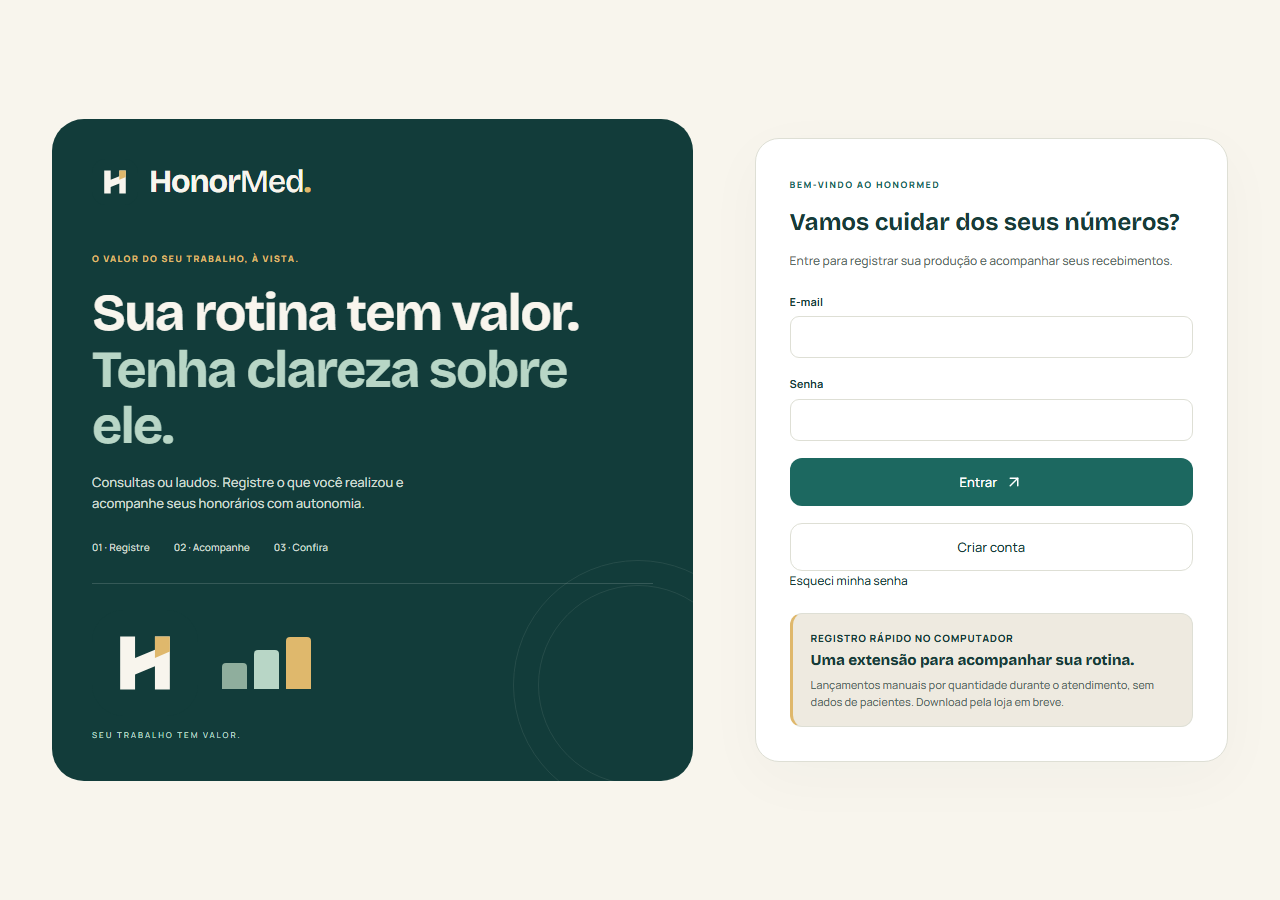
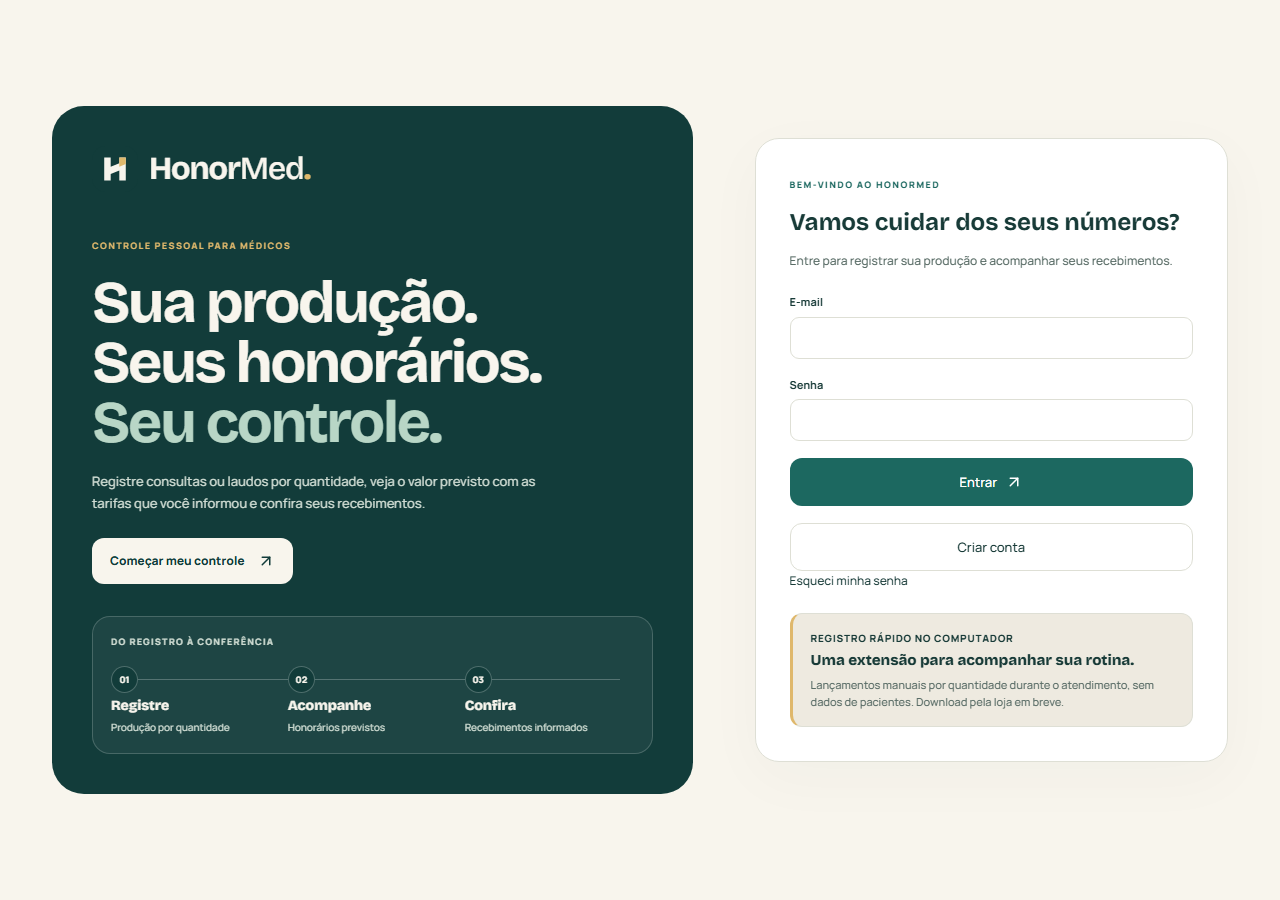
feat(brand): apresentar hero publica e movimento acessivel

diff --git a/web/src/app/globals.css b/web/src/app/globals.css
@@ -915,9 +915,6 @@ summary > strong {
   max-width: 400px;
   font-size: 14px;
 }
-.login-stat {
-  display: none;
-}
 .login-form {
   padding: 28px;
 }
@@ -1067,13 +1064,6 @@ summary > strong {
     grid-template-columns: 1fr 1fr;
     gap: 50px;
     padding: 50px;
-  }
-  .login-stat {
-    display: flex;
-    gap: 20px;
-    margin-top: 45px;
-    font-size: 12px;
-    color: var(--accent);
   }
 }
 @media (min-width: 960px) {
@@ -1686,6 +1676,98 @@ summary > strong {
   font-size: 9px;
   letter-spacing: 1.35px;
 }
+.public-hero h1 {
+  max-width: 590px;
+  font-size: clamp(38px, 4.4vw, 62px);
+  line-height: 1.02;
+  letter-spacing: -2.3px;
+}
+.public-hero > p {
+  max-width: 495px;
+  font-size: 14px;
+  line-height: 1.65;
+}
+.public-hero-action {
+  display: inline-flex;
+  align-items: center;
+  justify-content: center;
+  gap: 12px;
+  min-height: 46px;
+  margin-top: 24px;
+  padding: 11px 18px;
+  border-radius: 12px;
+  background: var(--accent);
+  color: var(--accent-ink);
+  font-size: 12px;
+  font-weight: 800;
+  transition: transform 220ms ease, box-shadow 220ms ease;
+}
+.public-hero-flow {
+  margin-top: 28px;
+  padding: 18px;
+  border: 1px solid var(--line);
+  border-radius: 18px;
+  background: var(--surface);
+}
+.public-hero-flow-title {
+  display: block;
+  margin-bottom: 17px;
+  color: var(--muted);
+  font-size: 9px;
+  font-weight: 800;
+  letter-spacing: 1.2px;
+}
+.public-hero-flow ol {
+  position: relative;
+  display: grid;
+  grid-template-columns: repeat(3, minmax(0, 1fr));
+  gap: 8px;
+  margin: 0;
+  padding: 0;
+  list-style: none;
+}
+.public-hero-flow ol::before {
+  content: "";
+  position: absolute;
+  top: 13px;
+  left: 14px;
+  right: 14px;
+  height: 1px;
+  background: var(--line);
+  transform-origin: left;
+  animation: hero-line 850ms ease 420ms both;
+}
+.public-hero-flow li {
+  position: relative;
+  display: grid;
+  justify-items: start;
+  gap: 5px;
+  min-width: 0;
+}
+.public-hero-flow li > span {
+  display: grid;
+  place-items: center;
+  width: 27px;
+  height: 27px;
+  border: 1px solid var(--line);
+  border-radius: 50%;
+  background: var(--surface);
+  color: var(--ink);
+  font-size: 9px;
+  font-weight: 800;
+}
+.public-hero-flow strong {
+  color: var(--ink);
+  font-family: var(--display);
+  font-size: 14px;
+  line-height: 1.2;
+}
+.public-hero-flow small {
+  display: none;
+  color: var(--muted);
+  font-size: 10px;
+  line-height: 1.45;
+}
 .login-form {
   border-radius: 24px;
   box-shadow: 0 16px 60px #123c3a08;
@@ -1722,18 +1804,6 @@ summary > strong {
   color: var(--muted);
   font-size: 11px;
   line-height: 1.55;
-}
-.login-stat {
-  display: flex;
-  flex-wrap: wrap;
-  gap: 16px;
-  margin-top: 22px;
-  font-size: 10px;
-  letter-spacing: 0.1px;
-  color: var(--muted);
-}
-.brand-composition {
-  display: none;
 }
 @media (min-width: 600px) and (max-width: 959px) {
   .login {
@@ -1780,71 +1850,105 @@ summary > strong {
     font-size: 13px;
     max-width: 360px;
   }
-  .login-stat {
+  .public-hero h1 {
+    max-width: 540px;
+    font-size: clamp(46px, 4.6vw, 62px);
+  }
+  .public-hero > p {
+    max-width: 450px;
+    font-size: 13px;
+  }
+  .public-hero-action {
+    background: var(--brand-paper);
+    color: var(--brand-deep);
+  }
+  .public-hero-flow {
+    margin-top: 32px;
+    border-color: #ffffff30;
+    background: #ffffff0d;
+  }
+  .public-hero-flow-title,
+  .public-hero-flow small {
     color: #cedbd2;
-    gap: 24px;
-    margin-top: 26px;
+  }
+  .public-hero-flow ol::before {
+    background: #ffffff40;
+  }
+  .public-hero-flow li > span {
+    border-color: #ffffff40;
+    background: var(--brand-deep);
+    color: var(--brand-paper);
+  }
+  .public-hero-flow strong {
+    color: var(--brand-paper);
+  }
+  .public-hero-flow small {
+    display: block;
   }
   .login-form {
     padding: 34px;
   }
-  .brand-composition {
-    display: flex;
-    position: relative;
-    height: 158px;
-    margin-top: 28px;
-    border-top: 1px solid #ffffff26;
-    align-items: center;
-    gap: 24px;
+}
+
+@keyframes surface-enter {
+  from { opacity: 0; transform: translateY(12px); }
+  to { opacity: 1; transform: translateY(0); }
+}
+@keyframes hero-line {
+  from { transform: scaleX(0); }
+  to { transform: scaleX(1); }
+}
+.public-hero .brand,
+.public-hero > .eyebrow,
+.public-hero h1,
+.public-hero > p,
+.public-hero-action,
+.public-hero-flow,
+.login-form {
+  animation: surface-enter 520ms cubic-bezier(.2, .8, .2, 1) both;
+}
+.public-hero > .eyebrow { animation-delay: 70ms; }
+.public-hero h1 { animation-delay: 130ms; }
+.public-hero > p { animation-delay: 190ms; }
+.public-hero-action { animation-delay: 250ms; }
+.public-hero-flow { animation-delay: 310ms; }
+.login-form { animation-delay: 170ms; }
+.main > .hero,
+.quick-card {
+  animation: surface-enter 420ms cubic-bezier(.2, .8, .2, 1) both;
+}
+.button,
+.icon-button,
+.seg button,
+.quick-tabs button,
+.sidebar nav button {
+  transition: transform 180ms ease, box-shadow 180ms ease, background-color 180ms ease;
+}
+@media (hover: hover) {
+  .button:not(:disabled):hover,
+  .icon-button:not(:disabled):hover,
+  .seg button:hover,
+  .quick-tabs button:hover,
+  .sidebar nav button:hover,
+  .public-hero-action:hover {
+    transform: translateY(-2px);
+    box-shadow: 0 5px 14px #123c3a1f;
   }
-  .brand-composition .honormed-mark {
-    width: 106px;
-    height: 106px;
-    z-index: 1;
-  }
-  .composition-orbit {
-    position: absolute;
-    width: 250px;
-    height: 250px;
-    border: 1px solid #f8f5ed17;
-    border-radius: 50%;
-    right: -110px;
-    top: -24px;
-  }
-  .composition-orbit::after {
-    content: "";
-    position: absolute;
-    inset: 24px;
-    border: 1px solid #f8f5ed17;
-    border-radius: 50%;
-  }
-  .composition-line {
-    display: flex;
-    gap: 7px;
-    align-items: flex-end;
-    height: 52px;
-  }
-  .composition-line span {
-    width: 25px;
-    height: 26px;
-    background: #8fae9d;
-    border-radius: 4px 4px 0 0;
-  }
-  .composition-line span:nth-child(2) {
-    height: 39px;
-    background: #b8d6c6;
-  }
-  .composition-line span:nth-child(3) {
-    height: 52px;
-    background: var(--brand-gold);
-  }
-  .brand-composition small {
-    position: absolute;
-    bottom: 0;
-    left: 0;
-    color: #b8d6c6;
-    font-size: 8px;
-    letter-spacing: 2px;
+}
+.button:not(:disabled):active,
+.icon-button:not(:disabled):active,
+.seg button:active,
+.quick-tabs button:active,
+.sidebar nav button:active,
+.public-hero-action:active {
+  transform: scale(.98);
+}
+@media (prefers-reduced-motion: reduce) {
+  *, *::before, *::after {
+    scroll-behavior: auto !important;
+    animation-duration: .01ms !important;
+    animation-delay: 0ms !important;
+    transition-duration: .01ms !important;
   }
 }
 

diff --git a/web/src/components/app.tsx b/web/src/components/app.tsx
@@ -308,37 +308,37 @@ export default function App({
   if (!signed)
     return (
       <main className="login">
-        <div className="login-story">
+        <section className="login-story public-hero" aria-labelledby="public-hero-title">
           <div className="brand">
             <Brand />
           </div>
-          <span className="eyebrow">O VALOR DO SEU TRABALHO, À VISTA.</span>
-          <h1>
-            Sua rotina tem valor.
+          <span className="eyebrow">CONTROLE PESSOAL PARA MÉDICOS</span>
+          <h1 id="public-hero-title">
+            Sua produção.
             <br />
-            <em>Tenha clareza sobre ele.</em>
+            Seus honorários.
+            <br />
+            <em>Seu controle.</em>
           </h1>
           <p>
-            Consultas ou laudos. Registre o que você realizou e acompanhe seus
-            honorários com autonomia.
+            Registre consultas ou laudos por quantidade, veja o valor previsto
+            com as tarifas que você informou e confira seus recebimentos.
           </p>
-          <div className="login-stat">
-            <span>01 · Registre</span>
-            <span>02 · Acompanhe</span>
-            <span>03 · Confira</span>
+          <a className="public-hero-action" href="#acesso">
+            Começar meu controle <ArrowUpRight size={18} aria-hidden="true" />
+          </a>
+          <div className="public-hero-flow">
+            <span className="public-hero-flow-title">DO REGISTRO À CONFERÊNCIA</span>
+            <ol>
+              <li><span>01</span><strong>Registre</strong><small>Produção por quantidade</small></li>
+              <li><span>02</span><strong>Acompanhe</strong><small>Honorários previstos</small></li>
+              <li><span>03</span><strong>Confira</strong><small>Recebimentos informados</small></li>
+            </ol>
           </div>
-          <div className="brand-composition" aria-hidden="true">
-            <div className="composition-orbit" />
-            <BrandMark />
-            <div className="composition-line">
-              <span /> <span /> <span />
-            </div>
-            <small>SEU TRABALHO TEM VALOR.</small>
-          </div>
-        </div>
-        <section className="card login-form">
+        </section>
+        <section className="card login-form" id="acesso" aria-labelledby="access-title">
           <span className="eyebrow">BEM-VINDO AO {PRODUCT_NAME}</span>
-          <h2>Vamos cuidar dos seus números?</h2>
+          <h2 id="access-title">Vamos cuidar dos seus números?</h2>
           <p className="muted">
             Entre para registrar sua produção e acompanhar seus recebimentos.
           </p>

diff --git a/web/e2e/public-entry.spec.ts b/web/e2e/public-entry.spec.ts
@@ -1,12 +1,20 @@
 import { test, expect } from "@playwright/test";
 
-test("entrada pública apresenta a extensão sem oferecer download antes da loja", async ({ page }, info) => {
+test("hero explica o controle pessoal, leva ao acesso e respeita movimento reduzido", async ({ page }, info) => {
   await page.goto("/");
+  await expect(page.getByRole("heading", { name: "Sua produção. Seus honorários. Seu controle." })).toBeVisible();
+  await expect(page.getByText("DO REGISTRO À CONFERÊNCIA")).toBeVisible();
   await expect(page.getByRole("heading", { name: "Vamos cuidar dos seus números?" })).toBeVisible();
   const note = page.getByRole("complementary", { name: "Extensão de registro rápido" });
   await expect(note).toContainText("Lançamentos manuais por quantidade");
   await expect(note).toContainText("Download pela loja em breve.");
   await expect(note.getByRole("link")).toHaveCount(0);
   expect(await page.evaluate(() => document.documentElement.scrollWidth <= innerWidth)).toBe(true);
-  await page.screenshot({ path: `test-results/public-entry-${info.project.name}.png`, fullPage: true });
+  await page.screenshot({ path: `test-results/public-entry-${info.project.name}.png`, fullPage: true, animations: "disabled" });
+  await page.getByRole("link", { name: "Começar meu controle" }).click();
+  await expect(page).toHaveURL(/#acesso$/);
+  await expect(page.locator("#acesso")).toBeInViewport();
+  await page.emulateMedia({ reducedMotion: "reduce" });
+  const duration = await page.locator(".public-hero h1").evaluate((element) => getComputedStyle(element).animationDuration);
+  expect(parseFloat(duration)).toBeLessThan(0.001);
 });

diff --git a/docs/brand/emails/README.md b/docs/brand/emails/README.md
@@ -9,7 +9,7 @@ Artes prontas para os dois fluxos usados pelo site: confirmação do cadastro e 
 
 A página `/recuperar-senha` também foi alinhada ao visual do login: [prévia 390 px](previa-pagina-recuperacao-390.png), [prévia 1280 px](previa-pagina-recuperacao-1280.png) e versões [escura 390 px](previa-pagina-recuperacao-escuro-390.png) e [escura 1280 px](previa-pagina-recuperacao-escuro-1280.png). As capturas usam Auth/API simulados e nenhum dado real.
 
-A página pública de entrada também tem prévias de [390 px](previa-pagina-publica-390.png), [1280 px](previa-pagina-publica-1280.png), [390 px em tema escuro](previa-pagina-publica-escuro-390.png) e [1280 px em tema escuro](previa-pagina-publica-escuro-1280.png). Elas mostram cadastro, recuperação de senha e a chamada da extensão. O download da extensão permanece indisponível até sua publicação na loja. Para regenerar essas quatro prévias, execute `node scripts/preview-public-entry.mjs` em `/web`; o script compila e abre o site apenas com uma URL de Auth simulada e inválida. Essas imagens são propostas locais e não indicam publicação da mudança no site.
+A página pública de entrada também tem prévias de [390 px](previa-pagina-publica-390.png), [1280 px](previa-pagina-publica-1280.png), [390 px em tema escuro](previa-pagina-publica-escuro-390.png) e [1280 px em tema escuro](previa-pagina-publica-escuro-1280.png). Elas mostram a hero do controle pessoal, cadastro, recuperação de senha e a chamada da extensão. O download da extensão permanece indisponível até sua publicação na loja. Para regenerar essas quatro prévias, execute `node scripts/preview-public-entry.mjs` em `/web`; o script compila e abre o site apenas com uma URL de Auth simulada e inválida. As capturas registram o estado final das animações. Essas imagens são propostas locais e não indicam publicação da mudança no site.
 
 ## Aplicação no projeto hospedado
 
